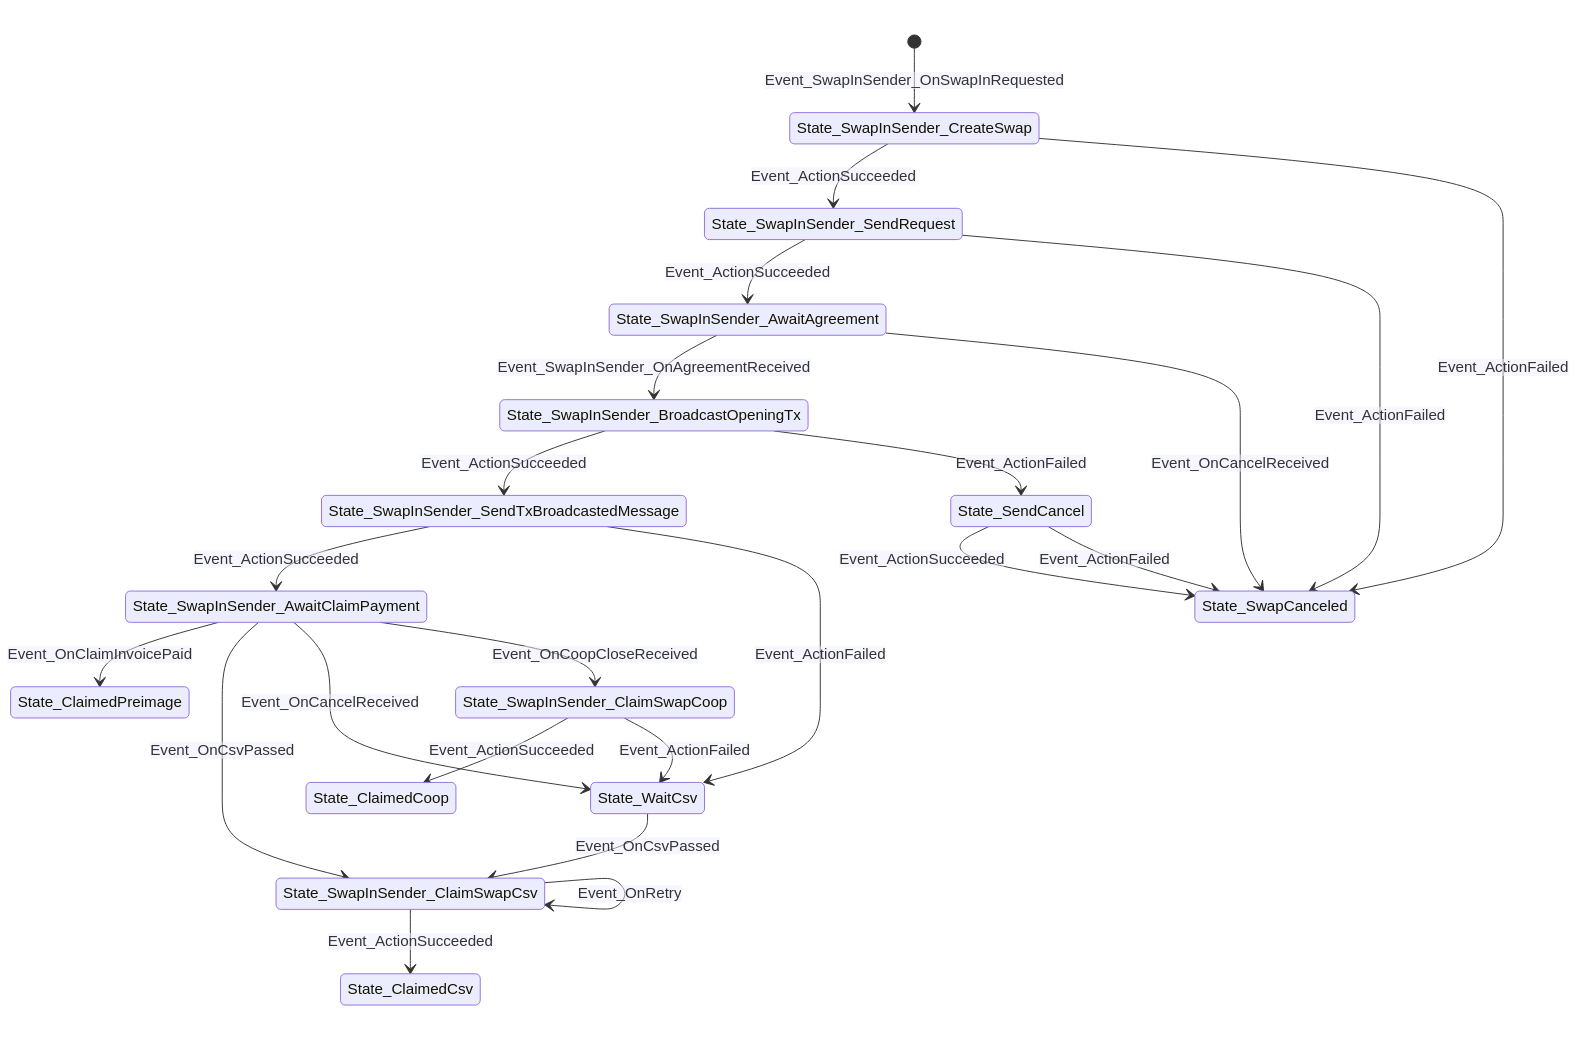
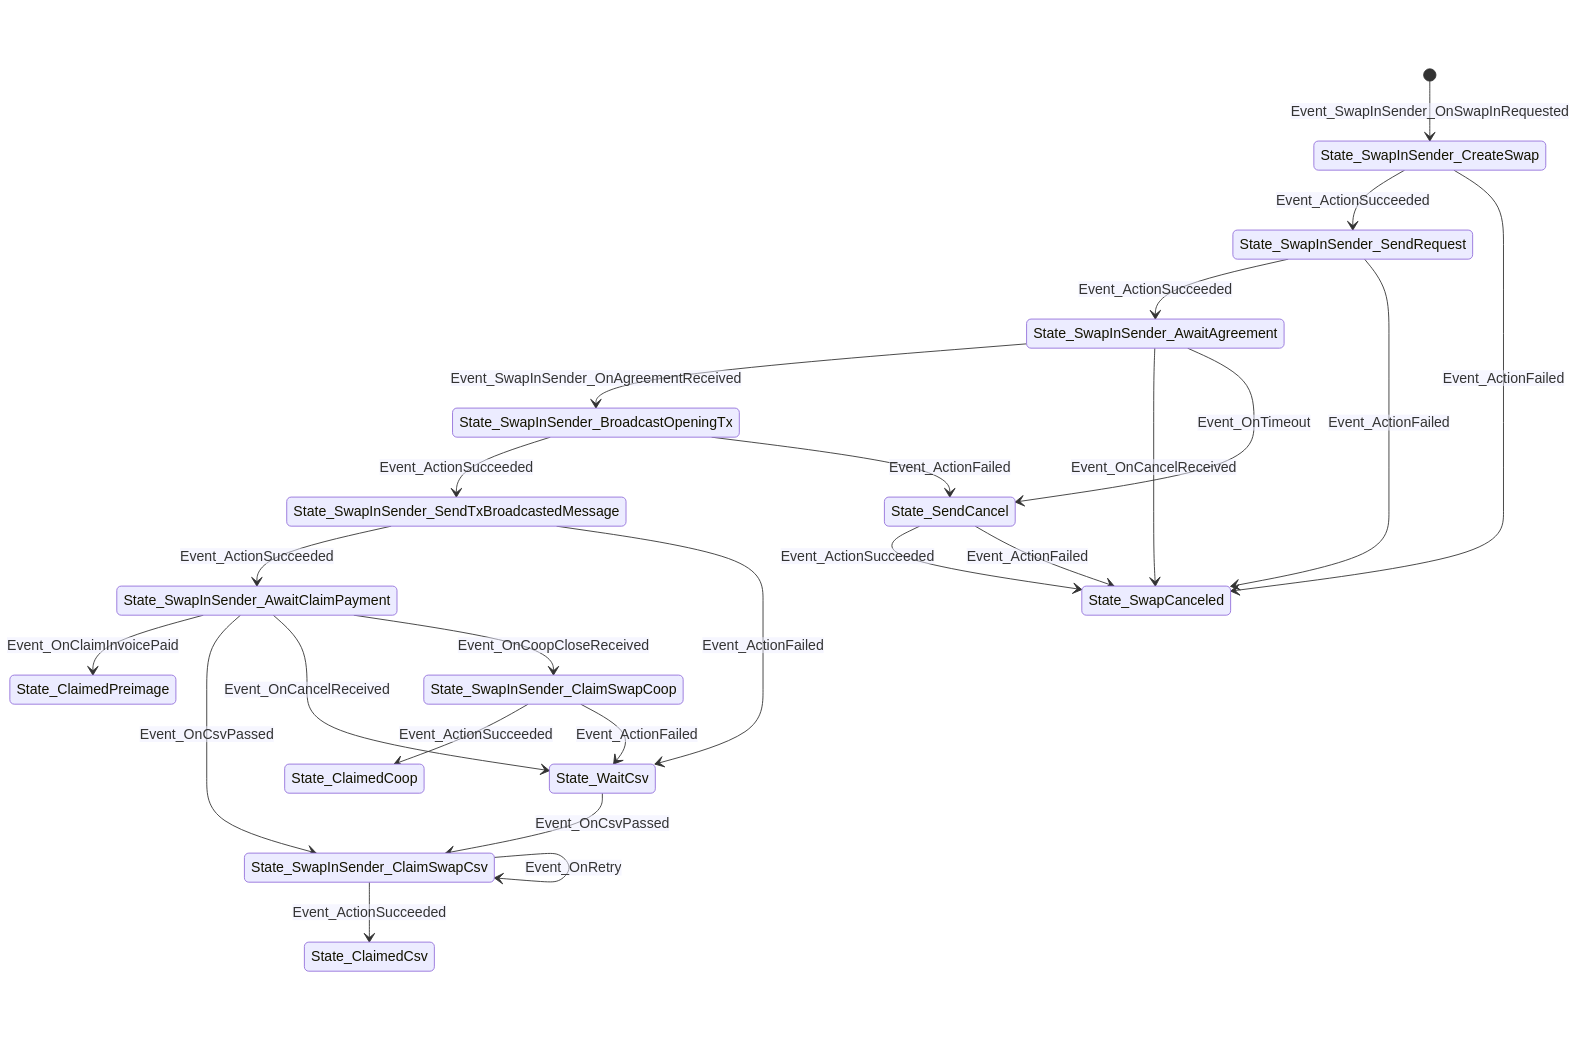
docs: Regenerate state machine diagrams

diff --git a/docs/mmd/swap-out-sender-states.md b/docs/mmd/swap-out-sender-states.md
@@ -1,40 +1,40 @@
 ```mermaid
 stateDiagram-v2
+[*] --> State_SwapOutSender_CreateSwap: Event_OnSwapOutStarted
 State_SwapOutSender_CreateSwap
 State_SwapOutSender_CreateSwap --> State_SwapOutSender_SendRequest: Event_ActionSucceeded
 State_SendCancel
 State_SendCancel --> State_SwapCanceled: Event_ActionSucceeded
 State_SendCancel --> State_SwapCanceled: Event_ActionFailed
-State_SwapOutSender_ValidateTxAndPayClaimInvoice
-State_SwapOutSender_ValidateTxAndPayClaimInvoice --> State_SwapOutSender_SendPrivkey: Event_ActionFailed
-State_SwapOutSender_ValidateTxAndPayClaimInvoice --> State_SwapOutSender_ClaimSwap: Event_ActionSucceeded
+State_SwapOutSender_ClaimSwap
+State_SwapOutSender_ClaimSwap --> State_ClaimedPreimage: Event_ActionSucceeded
+State_SwapOutSender_ClaimSwap --> State_SwapOutSender_ClaimSwap: Event_OnRetry
 State_SwapOutSender_SendPrivkey
-State_SwapOutSender_SendPrivkey --> State_SwapOutSender_SendCoopClose: Event_ActionSucceeded
 State_SwapOutSender_SendPrivkey --> State_SendCancel: Event_ActionFailed
-State_ClaimedCoop
+State_SwapOutSender_SendPrivkey --> State_SwapOutSender_SendCoopClose: Event_ActionSucceeded
+State_SwapCanceled
+State_ClaimedPreimage
 State_SwapOutSender_SendRequest
 State_SwapOutSender_SendRequest --> State_SwapCanceled: Event_ActionFailed
 State_SwapOutSender_SendRequest --> State_SwapOutSender_AwaitAgreement: Event_ActionSucceeded
 State_SwapOutSender_AwaitAgreement
-State_SwapOutSender_AwaitAgreement --> State_SwapOutSender_PayFeeInvoice: Event_OnFeeInvoiceReceived
 State_SwapOutSender_AwaitAgreement --> State_SwapCanceled: Event_OnCancelReceived
+State_SwapOutSender_AwaitAgreement --> State_SendCancel: Event_OnTimeout
+State_SwapOutSender_AwaitAgreement --> State_SwapOutSender_PayFeeInvoice: Event_OnFeeInvoiceReceived
 State_SwapOutSender_PayFeeInvoice
 State_SwapOutSender_PayFeeInvoice --> State_SendCancel: Event_ActionFailed
 State_SwapOutSender_PayFeeInvoice --> State_SwapOutSender_AwaitTxBroadcastedMessage: Event_ActionSucceeded
+State_ClaimedCoop
 State_SwapOutSender_AwaitTxBroadcastedMessage
-State_SwapOutSender_AwaitTxBroadcastedMessage --> State_SwapCanceled: Event_OnCancelReceived
 State_SwapOutSender_AwaitTxBroadcastedMessage --> State_SwapOutSender_AwaitTxConfirmation: Event_OnTxOpenedMessage
-State_SwapOutSender_AwaitTxBroadcastedMessage --> State_SendCancel: Event_ActionSucceeded
-State_SwapOutSender_AwaitTxConfirmation
-State_SwapOutSender_AwaitTxConfirmation --> State_SwapOutSender_ValidateTxAndPayClaimInvoice: Event_OnTxConfirmed
-State_SwapOutSender_AwaitTxConfirmation --> State_SwapOutSender_SendPrivkey: Event_ActionFailed
-State_SwapCanceled
-State_ClaimedPreimage
+State_SwapOutSender_AwaitTxBroadcastedMessage --> State_SwapCanceled: Event_OnCancelReceived
+State_SwapOutSender_ValidateTxAndPayClaimInvoice
+State_SwapOutSender_ValidateTxAndPayClaimInvoice --> State_SwapOutSender_SendPrivkey: Event_ActionFailed
+State_SwapOutSender_ValidateTxAndPayClaimInvoice --> State_SwapOutSender_ClaimSwap: Event_ActionSucceeded
 State_SwapOutSender_SendCoopClose
-State_SwapOutSender_SendCoopClose --> State_SendCancel: Event_ActionFailed
 State_SwapOutSender_SendCoopClose --> State_ClaimedCoop: Event_ActionSucceeded
-[*] --> State_SwapOutSender_CreateSwap: Event_OnSwapOutStarted
-State_SwapOutSender_ClaimSwap
-State_SwapOutSender_ClaimSwap --> State_ClaimedPreimage: Event_ActionSucceeded
-State_SwapOutSender_ClaimSwap --> State_SwapOutSender_ClaimSwap: Event_OnRetry
+State_SwapOutSender_SendCoopClose --> State_SendCancel: Event_ActionFailed
+State_SwapOutSender_AwaitTxConfirmation
+State_SwapOutSender_AwaitTxConfirmation --> State_SwapOutSender_SendPrivkey: Event_ActionFailed
+State_SwapOutSender_AwaitTxConfirmation --> State_SwapOutSender_ValidateTxAndPayClaimInvoice: Event_OnTxConfirmed
 ```

diff --git a/docs/mmd/swap-in-sender-states.md b/docs/mmd/swap-in-sender-states.md
@@ -1,39 +1,40 @@
 ```mermaid
 stateDiagram-v2
-State_SwapInSender_SendTxBroadcastedMessage
-State_SwapInSender_SendTxBroadcastedMessage --> State_SwapInSender_AwaitClaimPayment: Event_ActionSucceeded
-State_SwapInSender_SendTxBroadcastedMessage --> State_WaitCsv: Event_ActionFailed
+State_WaitCsv
+State_WaitCsv --> State_SwapInSender_ClaimSwapCsv: Event_OnCsvPassed
+State_SendCancel
+State_SendCancel --> State_SwapCanceled: Event_ActionSucceeded
+State_SendCancel --> State_SwapCanceled: Event_ActionFailed
 State_SwapCanceled
-State_SwapInSender_AwaitClaimPayment
-State_SwapInSender_AwaitClaimPayment --> State_ClaimedPreimage: Event_OnClaimInvoicePaid
-State_SwapInSender_AwaitClaimPayment --> State_SwapInSender_ClaimSwapCsv: Event_OnCsvPassed
-State_SwapInSender_AwaitClaimPayment --> State_WaitCsv: Event_OnCancelReceived
-State_SwapInSender_AwaitClaimPayment --> State_SwapInSender_ClaimSwapCoop: Event_OnCoopCloseReceived
 State_SwapInSender_CreateSwap
 State_SwapInSender_CreateSwap --> State_SwapInSender_SendRequest: Event_ActionSucceeded
 State_SwapInSender_CreateSwap --> State_SwapCanceled: Event_ActionFailed
 State_SwapInSender_AwaitAgreement
 State_SwapInSender_AwaitAgreement --> State_SwapInSender_BroadcastOpeningTx: Event_SwapInSender_OnAgreementReceived
 State_SwapInSender_AwaitAgreement --> State_SwapCanceled: Event_OnCancelReceived
-State_SwapInSender_ClaimSwapCoop
-State_SwapInSender_ClaimSwapCoop --> State_ClaimedCoop: Event_ActionSucceeded
-State_SwapInSender_ClaimSwapCoop --> State_WaitCsv: Event_ActionFailed
-State_WaitCsv
-State_WaitCsv --> State_SwapInSender_ClaimSwapCsv: Event_OnCsvPassed
-State_ClaimedCoop
-[*] --> State_SwapInSender_CreateSwap: Event_SwapInSender_OnSwapInRequested
-State_SwapInSender_SendRequest
-State_SwapInSender_SendRequest --> State_SwapInSender_AwaitAgreement: Event_ActionSucceeded
-State_SwapInSender_SendRequest --> State_SwapCanceled: Event_ActionFailed
+State_SwapInSender_AwaitAgreement --> State_SendCancel: Event_OnTimeout
 State_SwapInSender_BroadcastOpeningTx
 State_SwapInSender_BroadcastOpeningTx --> State_SwapInSender_SendTxBroadcastedMessage: Event_ActionSucceeded
 State_SwapInSender_BroadcastOpeningTx --> State_SendCancel: Event_ActionFailed
+State_SwapInSender_AwaitClaimPayment
+State_SwapInSender_AwaitClaimPayment --> State_ClaimedPreimage: Event_OnClaimInvoicePaid
+State_SwapInSender_AwaitClaimPayment --> State_SwapInSender_ClaimSwapCsv: Event_OnCsvPassed
+State_SwapInSender_AwaitClaimPayment --> State_WaitCsv: Event_OnCancelReceived
+State_SwapInSender_AwaitClaimPayment --> State_SwapInSender_ClaimSwapCoop: Event_OnCoopCloseReceived
+State_SwapInSender_ClaimSwapCoop
+State_SwapInSender_ClaimSwapCoop --> State_ClaimedCoop: Event_ActionSucceeded
+State_SwapInSender_ClaimSwapCoop --> State_WaitCsv: Event_ActionFailed
+State_SwapInSender_SendRequest
+State_SwapInSender_SendRequest --> State_SwapInSender_AwaitAgreement: Event_ActionSucceeded
+State_SwapInSender_SendRequest --> State_SwapCanceled: Event_ActionFailed
 State_SwapInSender_ClaimSwapCsv
 State_SwapInSender_ClaimSwapCsv --> State_ClaimedCsv: Event_ActionSucceeded
 State_SwapInSender_ClaimSwapCsv --> State_SwapInSender_ClaimSwapCsv: Event_OnRetry
-State_SendCancel
-State_SendCancel --> State_SwapCanceled: Event_ActionSucceeded
-State_SendCancel --> State_SwapCanceled: Event_ActionFailed
 State_ClaimedPreimage
+[*] --> State_SwapInSender_CreateSwap: Event_SwapInSender_OnSwapInRequested
+State_SwapInSender_SendTxBroadcastedMessage
+State_SwapInSender_SendTxBroadcastedMessage --> State_SwapInSender_AwaitClaimPayment: Event_ActionSucceeded
+State_SwapInSender_SendTxBroadcastedMessage --> State_WaitCsv: Event_ActionFailed
 State_ClaimedCsv
+State_ClaimedCoop
 ```
